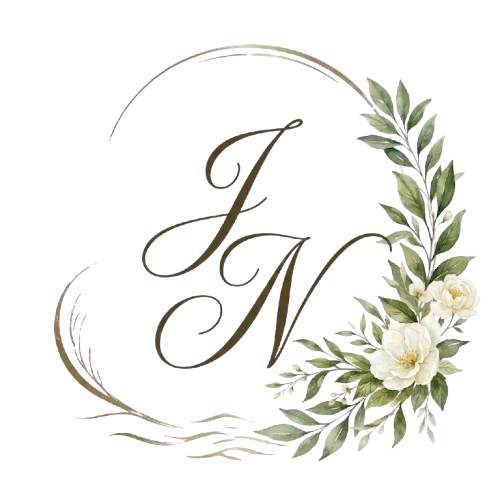
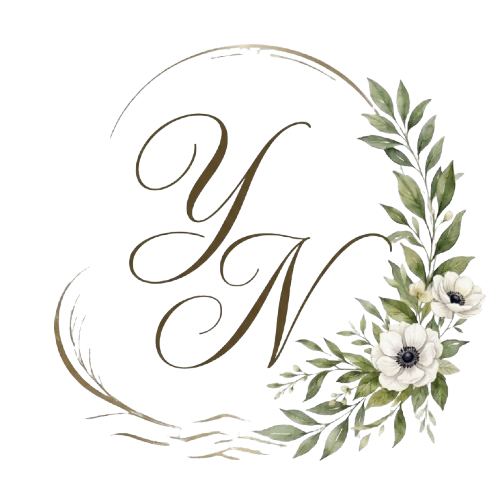
update: names and images

diff --git a/src/components/sections/Preloader.tsx b/src/components/sections/Preloader.tsx
@@ -56,7 +56,7 @@ export default function Preloader() {
         </p>
 
         <h1 className="text-4xl md:text-5xl italic text-[#4A4A4A] font-[family-name:var(--font-cormorant)]">
-          Jason & Nathalia
+          Yeison & Nathalia
         </h1>
       </div>
 

diff --git a/src/app/layout.tsx b/src/app/layout.tsx
@@ -36,7 +36,7 @@ const msMadi = Ms_Madi({
 });
 
 export const metadata: Metadata = {
-  title: "Boda Jason & Nathalia",
+  title: "Boda Yeison & Nathalia",
   description: "Invitación digital",
 };
 

diff --git a/src/components/sections/Footer.tsx b/src/components/sections/Footer.tsx
@@ -158,7 +158,7 @@ export default function FooterSection() {
             italic
           "
         >
-          Nathalia y Jason
+          Yeison y Nathalia
         </p>
       </div>
 
